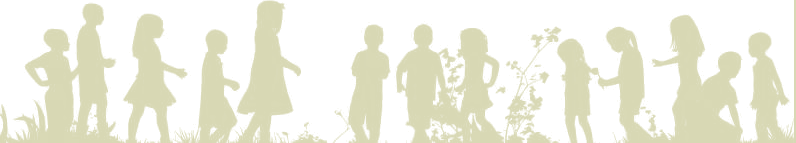
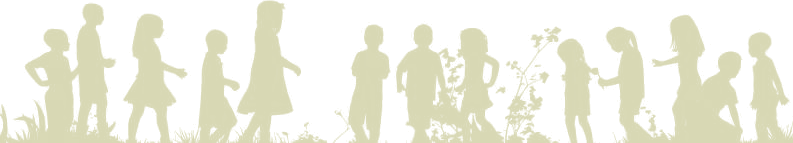
Move artwork to the right of the hero; make section transitions replay
TRANSITIONS - this was a real bug, not a missing feature
The 2.5s failsafe added .in to every [data-sec] on the page regardless of
scroll position, so two and a half seconds after load the whole page was
already revealed and there was nothing left to animate. That is why no
transitions were visible.

Reveals are now split in two:
  - Sections toggle. Each one fades and rises every time it enters view and
    resets once it is fully clear of the viewport, so the transition plays
    on every pass rather than once per page load. rootMargin 10%/-10% means
    a section never resets while any part of it is still readable.
  - Anything outside a section still reveals once and stays.
The failsafe now only rescues elements currently on screen; below-fold
content is the observer's job, and the observer is feature-detected.
Verified by dumping the rendered DOM: at load, all six below-fold sections
carry data-sec and none carry .in.

ARTWORK POSITION
Hero is now a two-column grid, copy left and children right, centred
against each other; on narrow screens the art drops below the copy so it
can never push the headline off the first screen.

TWO DEFECTS FOUND BY LOOKING AT THE RENDER
  - The source screenshot carried a 2px dark border down its right edge,
    full height, which had been baked into the PNG as a visible line.
    Trimmed; artwork is now 793x143.
  - Hairline seams appeared between children at the clip boundaries from
[…]

diff --git a/site/assets/js/main.js b/site/assets/js/main.js
@@ -114,42 +114,90 @@
   }
 
 
-  /* ---- scroll reveals --------------------------------------------------- */
-  if (!reduced && "IntersectionObserver" in window) {
-    var io = new IntersectionObserver(function (entries) {
-      entries.forEach(function (entry) {
-        if (!entry.isIntersecting) return;
-        var host = /** @type {HTMLElement} */ (entry.target);
-        var isGroup = host.hasAttribute("data-reveal-group");
-        var kids = isGroup
-          ? /** @type {HTMLElement[]} */ (Array.prototype.slice.call(host.children, 0, 5))
-          : [host];
+  /* ---- scroll reveals ----------------------------------------------------
+     Sections replay. Each one fades and rises every time it comes back into
+     view, not just the first time, because a transition you can only ever
+     see once is a transition most visitors never see at all.
 
-        kids.forEach(function (el, i) {
-          setTimeout(function () { el.classList.add("in"); }, i * 70);
-        });
-        if (isGroup) {
-          Array.prototype.slice.call(host.children, 5).forEach(function (el) {
-            /** @type {HTMLElement} */ (el).classList.add("in");
+     Replaying is the reason the old 2.5s failsafe had to go: it added .in to
+     every section on the page two and a half seconds after load, so by the
+     time anyone scrolled there was nothing left to animate. The failsafe now
+     only rescues what is actually on screen; anything below the fold is the
+     observer's job, and the observer is feature-detected.
+
+     Elements outside a section still reveal once and stay revealed. */
+  if (!reduced && "IntersectionObserver" in window) {
+
+    /** @param {Element} host @param {boolean} on */
+    function setGroup(host, on) {
+      var isGroup = host.hasAttribute("data-reveal-group");
+      var items = isGroup
+        ? Array.prototype.slice.call(host.children)
+        : [host];
+      items.forEach(function (el, i) {
+        var node = /** @type {HTMLElement} */ (el);
+        if (!on) { node.classList.remove("in"); return; }
+        if (i < 5) setTimeout(function () { node.classList.add("in"); }, i * 70);
+        else node.classList.add("in");
+      });
+    }
+
+    /* Sections: toggled, so they play again on every pass. The bottom margin
+       delays the entrance slightly; the generous top margin means a section
+       only resets once it is well clear of the viewport, never while any of
+       it is still readable. */
+    var secIO = new IntersectionObserver(function (entries) {
+      entries.forEach(function (entry) {
+        var sec = /** @type {HTMLElement} */ (entry.target);
+        if (entry.isIntersecting) {
+          sec.classList.add("in");
+          all("[data-reveal],[data-reveal-group]", sec).forEach(function (el) {
+            setGroup(el, true);
+          });
+        } else {
+          sec.classList.remove("in");
+          all("[data-reveal],[data-reveal-group]", sec).forEach(function (el) {
+            setGroup(el, false);
           });
         }
-        io.unobserve(host);
+      });
+    }, { rootMargin: "10% 0px -10% 0px" });
+
+    all("[data-sec]").forEach(function (el) {
+      all("[data-reveal-group]", el).forEach(function (g) {
+        Array.prototype.forEach.call(g.children, function (c) {
+          /** @type {HTMLElement} */ (c).setAttribute("data-reveal", "");
+        });
+      });
+      secIO.observe(el);
+    });
+
+    /* Anything not inside a replaying section reveals once and stays. */
+    var onceIO = new IntersectionObserver(function (entries) {
+      entries.forEach(function (entry) {
+        if (!entry.isIntersecting) return;
+        setGroup(entry.target, true);
+        onceIO.unobserve(entry.target);
       });
     }, { rootMargin: "0px 0px -12% 0px" });
 
-    all("[data-reveal],[data-reveal-group],[data-sec]").forEach(function (el) {
+    all("[data-reveal],[data-reveal-group]").forEach(function (el) {
+      if (el.closest("[data-sec]")) return;
       if (el.hasAttribute("data-reveal-group")) {
         Array.prototype.forEach.call(el.children, function (c) {
           /** @type {HTMLElement} */ (c).setAttribute("data-reveal", "");
         });
       }
-      io.observe(el);
+      onceIO.observe(el);
     });
 
-    /* Failsafe — content must never stay invisible because motion failed */
+    /* Failsafe, scoped to what is on screen now. Content must never sit
+       invisible because motion failed, but rescuing the whole page here is
+       what broke the replay in the first place. */
     setTimeout(function () {
       all("[data-reveal]:not(.in),[data-sec]:not(.in)").forEach(function (el) {
-        el.classList.add("in");
+        var r = el.getBoundingClientRect();
+        if (r.top < window.innerHeight && r.bottom > 0) el.classList.add("in");
       });
     }, 2500);
   } else {

diff --git a/site/assets/css/style.css b/site/assets/css/style.css
@@ -774,9 +774,17 @@ legend{
 
    aria-hidden: it is decoration. Everything it conveys is said in the
    headline underneath it. */
+/* Two columns on desktop: words left, artwork right, both centred against
+   each other. On narrow screens the art drops below the copy — it is
+   decoration, so it should never push the headline off the first screen. */
+.hero__grid{display:grid; gap:clamp(1.75rem,4vw,3.25rem);
+  grid-template-columns:1fr; align-items:center}
+@media(min-width:940px){
+  .hero__grid{grid-template-columns:minmax(0,1fr) minmax(0,.95fr)}
+}
 .kids{
-  position:relative; width:min(100%,460px); aspect-ratio:796 / 143;
-  margin:0 0 clamp(1.25rem,3vw,2rem);
+  position:relative; width:100%; max-width:540px; aspect-ratio:793 / 143;
+  margin:0; justify-self:center;
 }
 .kid{
   position:absolute; inset:0;
@@ -793,18 +801,24 @@ legend{
   filter:drop-shadow(0 0 7px rgba(71,114,79,.55)) saturate(1.25) brightness(.94);
   transform:translateY(-2px);
 }
-.kid:nth-child(1){clip-path:inset(0 91.080% 0 0.000%)}
-.kid:nth-child(2){clip-path:inset(0 84.925% 0 8.920%)}
-.kid:nth-child(3){clip-path:inset(0 77.136% 0 15.075%)}
-.kid:nth-child(4){clip-path:inset(0 69.598% 0 22.864%)}
-.kid:nth-child(5){clip-path:inset(0 59.799% 0 30.402%)}
-.kid:nth-child(6){clip-path:inset(0 49.749% 0 40.201%)}
-.kid:nth-child(7){clip-path:inset(0 43.342% 0 50.251%)}
-.kid:nth-child(8){clip-path:inset(0 31.281% 0 56.658%)}
-.kid:nth-child(9){clip-path:inset(0 18.090% 0 68.719%)}
-.kid:nth-child(10){clip-path:inset(0 11.307% 0 81.910%)}
-.kid:nth-child(11){clip-path:inset(0 6.533% 0 88.693%)}
-.kid:nth-child(12){clip-path:inset(0 0.126% 0 93.467%)}
+
+/* One strip per child. Each extends 0.35% past its right boundary so
+   sub-pixel rounding cannot leave a hairline seam between neighbours; the
+   overlap is invisible because every layer paints the same image in the
+   same place. The last strip is not extended - there is nothing to its
+   right to cover. */
+.kid:nth-child(1){clip-path:inset(0 90.697% 0 0.000%)}
+.kid:nth-child(2){clip-path:inset(0 84.518% 0 8.953%)}
+.kid:nth-child(3){clip-path:inset(0 76.699% 0 15.132%)}
+.kid:nth-child(4){clip-path:inset(0 69.133% 0 22.951%)}
+.kid:nth-child(5){clip-path:inset(0 59.297% 0 30.517%)}
+.kid:nth-child(6){clip-path:inset(0 49.209% 0 40.353%)}
+.kid:nth-child(7){clip-path:inset(0 42.777% 0 50.441%)}
+.kid:nth-child(8){clip-path:inset(0 30.671% 0 56.873%)}
+.kid:nth-child(9){clip-path:inset(0 17.431% 0 68.979%)}
+.kid:nth-child(10){clip-path:inset(0 10.621% 0 82.219%)}
+.kid:nth-child(11){clip-path:inset(0 5.829% 0 89.029%)}
+.kid:nth-child(12){clip-path:inset(0 0.000% 0 93.821%)}
 @media (prefers-reduced-motion: reduce){
   .kid{transition:none}
   .kid:hover{transform:none}

diff --git a/site/index.html b/site/index.html
@@ -48,7 +48,19 @@
 <main id="main">
 
   <section class="section hero">
-    <div class="wrap">
+    <div class="wrap hero__grid">
+      <div class="hero__copy">
+        <p class="eyebrow">The Project Hope &mdash; serving worldwide</p>
+        <h1>Where healing meets growth</h1>
+        <p class="lede hero__lede">A centre for children with special needs, led by an IBAO-certified International Behavior Analyst.</p>
+        <div class="hero__acts">
+          <a class="btn btn--primary" href="contact.html">Start with a conversation</a>
+          <a class="btn btn--ghost" href="https://wa.me/923355443660" target="_blank" rel="noopener">Message on WhatsApp</a>
+        </div>
+        <a class="cue" href="#paths">Scroll to content
+          <svg viewBox="0 0 24 24" fill="none" stroke="currentColor" stroke-width="2.5" aria-hidden="true"><path d="m6 9 6 6 6-6"/></svg>
+        </a>
+      </div>
       <div class="kids" aria-hidden="true">
         <span class="kid"></span>
         <span class="kid"></span>
@@ -63,16 +75,6 @@
         <span class="kid"></span>
         <span class="kid"></span>
       </div>
-      <p class="eyebrow">The Project Hope &mdash; serving worldwide</p>
-      <h1>Where healing meets growth</h1>
-      <p class="lede hero__lede">A centre for children with special needs, led by an IBAO-certified International Behavior Analyst.</p>
-      <div class="hero__acts">
-        <a class="btn btn--primary" href="contact.html">Start with a conversation</a>
-        <a class="btn btn--ghost" href="https://wa.me/923355443660" target="_blank" rel="noopener">Message on WhatsApp</a>
-      </div>
-      <a class="cue" href="#paths">Scroll to content
-        <svg viewBox="0 0 24 24" fill="none" stroke="currentColor" stroke-width="2.5" aria-hidden="true"><path d="m6 9 6 6 6-6"/></svg>
-      </a>
     </div>
   </section>
 
